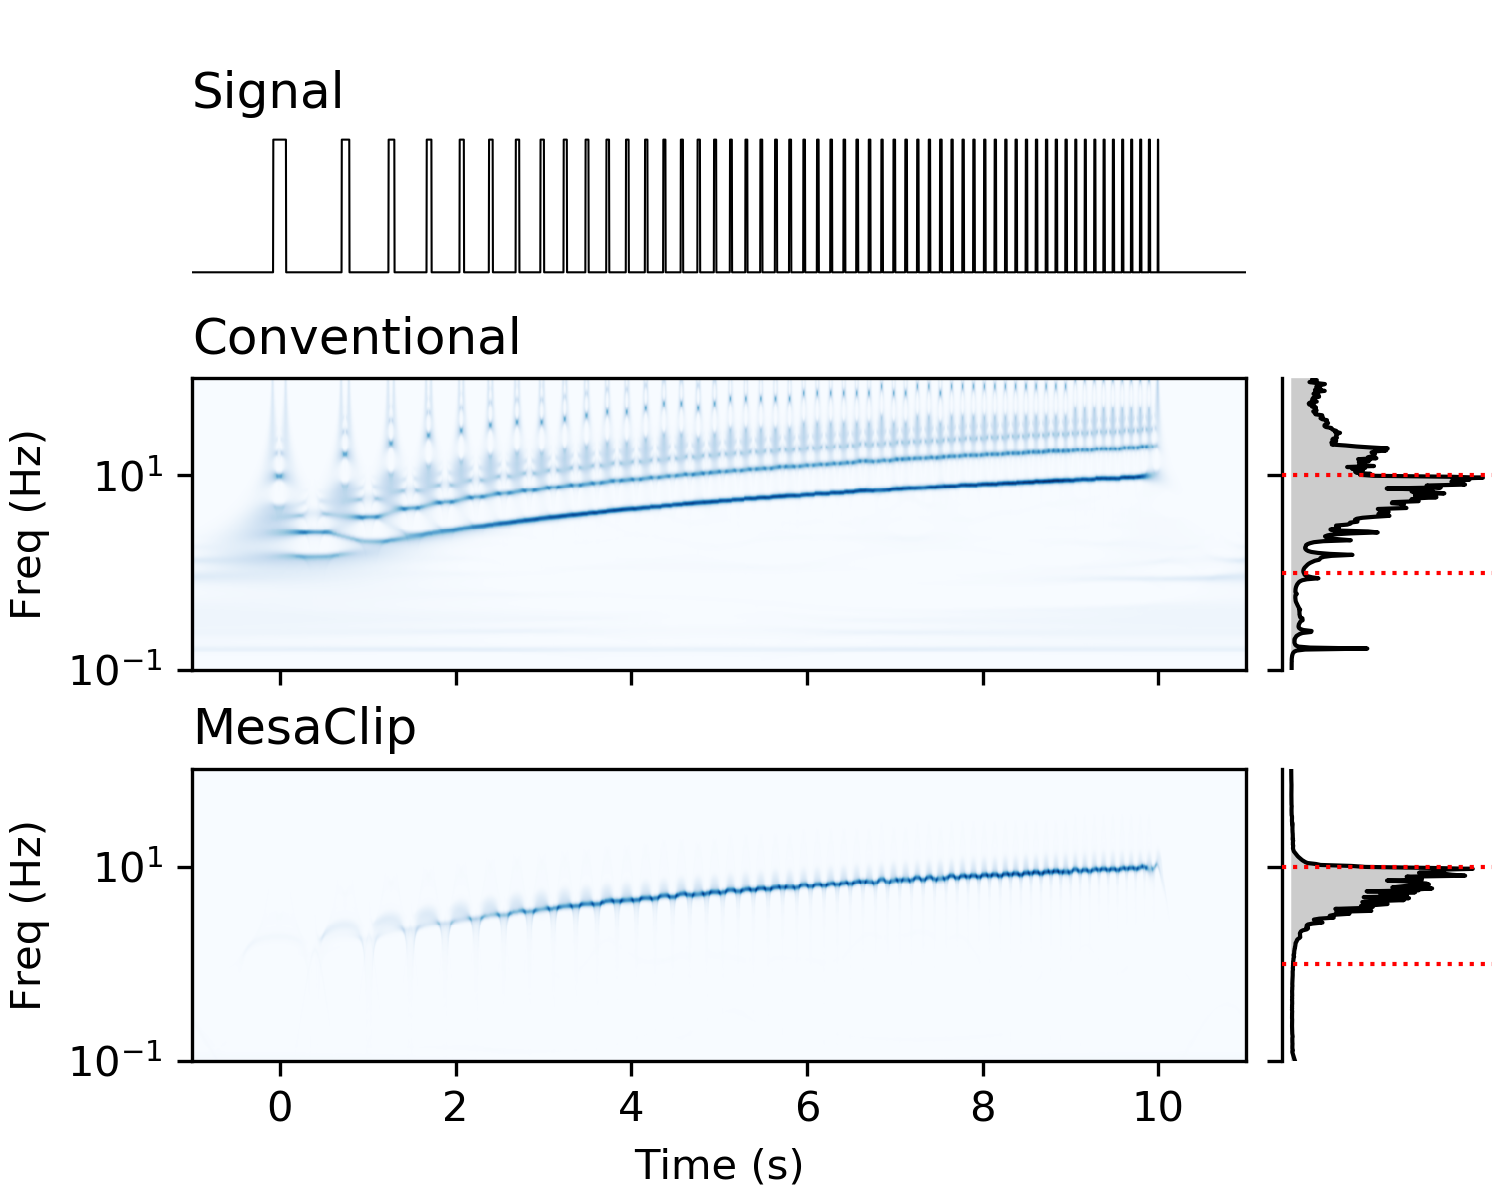
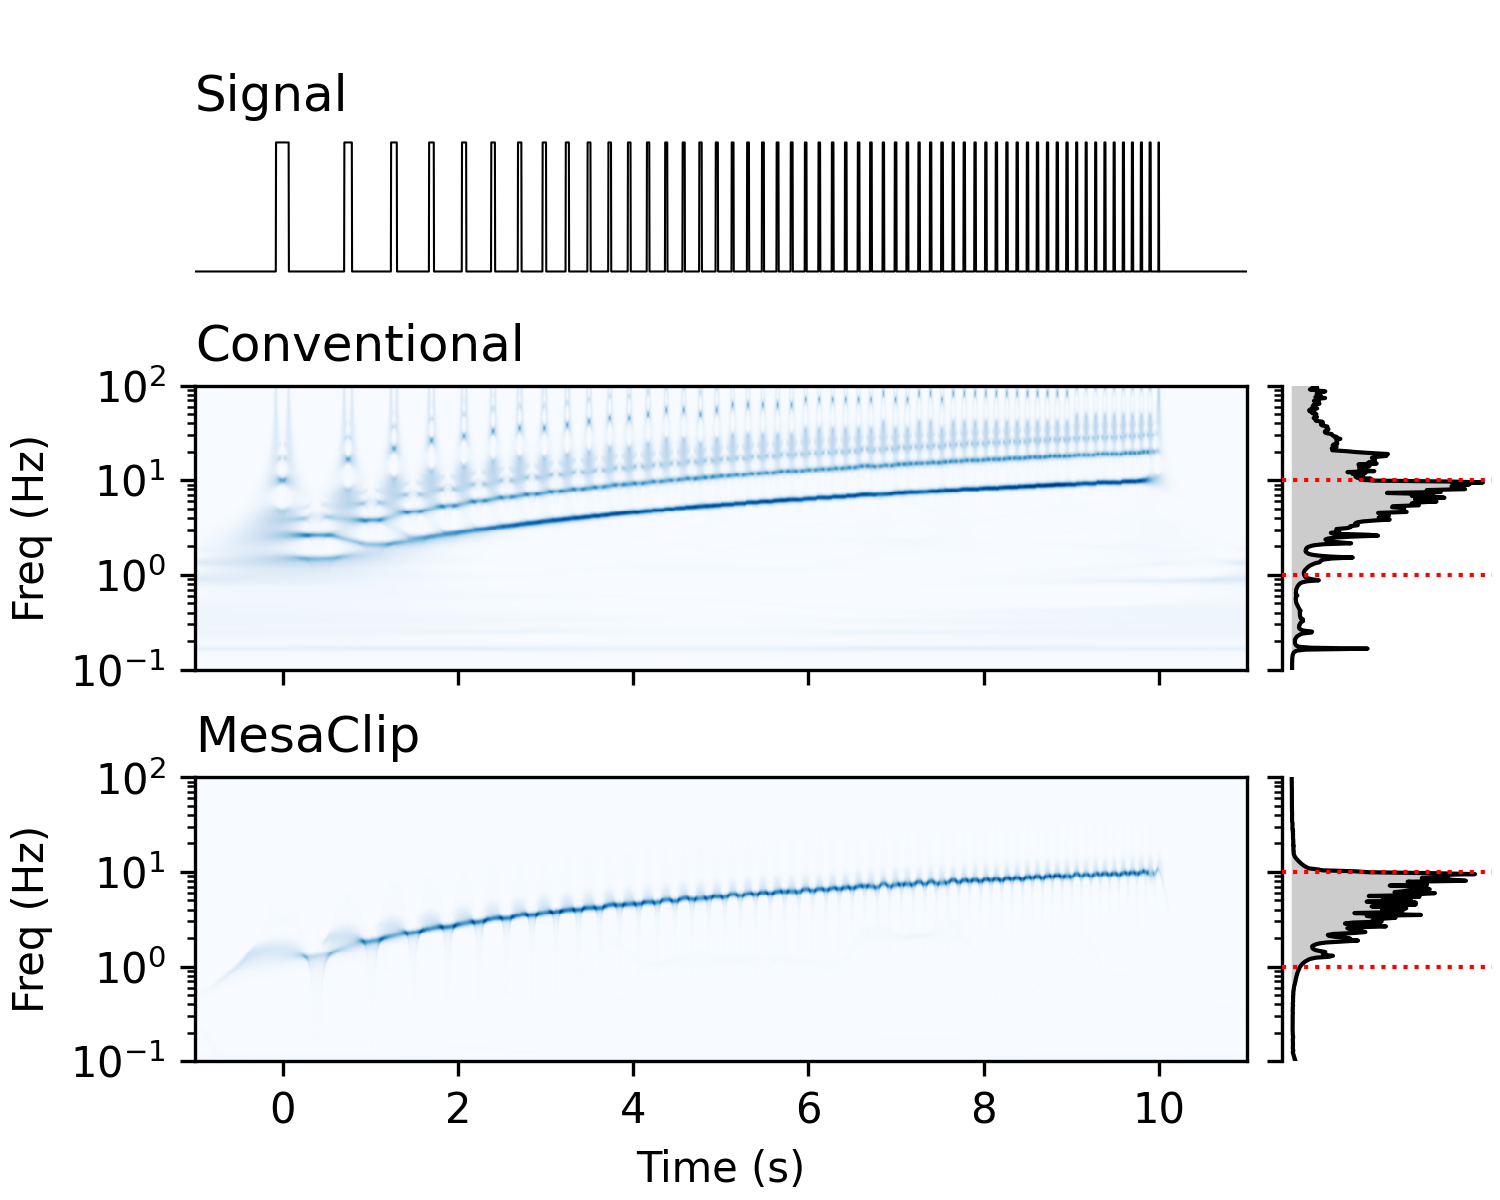
fix examples to use k=2 as in paper

diff --git a/src/examples.py b/src/examples.py
@@ -21,7 +21,7 @@ def plot_mesaclipped(t, x, fs, mother1, mother2, freqs, sync_sqz, fig_filename, 
 
     dt = t[1] - t[0]
 
-    min_cycles = 8
+    min_cycles = 2
 
     if sync_sqz:
         syncsqz_freqs = freqs
@@ -77,7 +77,7 @@ def plot_mesaclipped(t, x, fs, mother1, mother2, freqs, sync_sqz, fig_filename, 
     # create figure and axes
     fig = plt.figure(figsize=(5, 4))
     gs = gridspec.GridSpec(1 + nw, 2, width_ratios=[1, 0.2], height_ratios=[1, ] + [2, ] * nw)
-    ax = np.zeros((1 + nw, 2), dtype=np.object)
+    ax = np.zeros((1 + nw, 2), dtype=object)
     ax[0, 0] = fig.add_subplot(gs[0, 0])  # signal
     ax_s = None
     for i in range(1, 1 + nw):            # wavelet transform results
